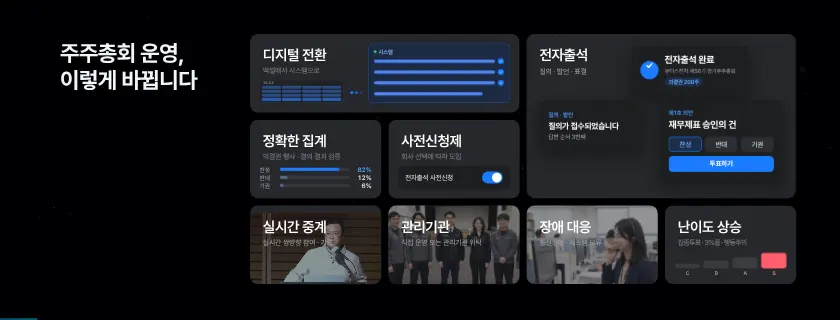
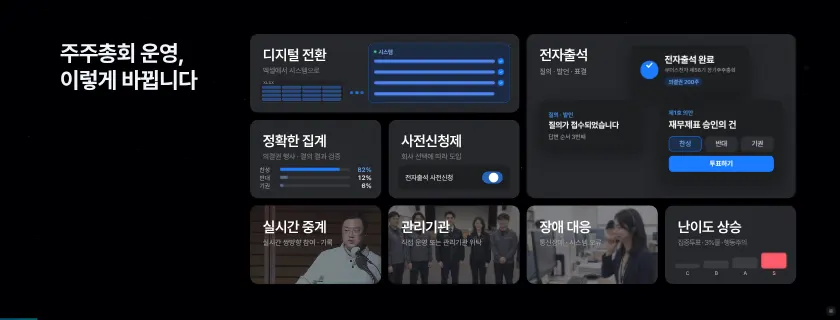
M7-7 세션 4 K02: 실시간 중계 영상 다시 크롭 · 배치(카드 꽉 · 1.5배 · 얼굴이 제목 오른쪽), 아래 세 카드 사진 · 영상 투명도 50 → 42%, 장애 대응 사진 위로(인물 머리 = 관리기관 인물 머리 높이)
Claude-Session: https://claude.ai/code/session_01Mn7Nn16wk2DQC1WBM1amqJ

diff --git a/sw.js b/sw.js
@@ -1,5 +1,5 @@
 /* 오프라인 캐시 — 온라인 주소(https)로 한 번 열면 모든 파일을 저장해 두고, 통신이 끊겨도 저장본으로 동작합니다. */
-const V='seminar-screen-11272030';
+const V='seminar-screen-11272035';
 const FILES=["./","assets/KakaoBigSans-Bold.woff2","assets/KakaoBigSans-Regular.woff2","assets/KakaoSmallSans-Bold.woff2","assets/KakaoSmallSans-Light.woff2","assets/KakaoSmallSans-Regular.woff2","assets/OrbitControls.js","assets/PretendardVariable.woff2","assets/attendees.js","assets/blue-bloom.html","assets/cong1.webp","assets/cong2.webp","assets/ds-bg.html","assets/four-states.html","assets/intro.mp4","assets/irk-white.svg","assets/irk-wordmark-white.svg","assets/kism-intro.mp4","assets/kism-white.svg","assets/ksmp-white.svg","assets/panel.js","assets/qa-online.js","assets/s2/img1.png","assets/s2/img2.png","assets/s2/img3.png","assets/s2/img4.png","assets/s4/aws.webp","assets/s4/callcenter.webp","assets/s4/chair-1.webp","assets/s4/chair-2.webp","assets/s4/chair-3.webp","assets/s4/conexus-word.webp","assets/s4/ctl-1.webp","assets/s4/cx-1.webp","assets/s4/cx-2.webp","assets/s4/cx-3.webp","assets/s4/cx-flow.mp4","assets/s4/cx-pop1.webp","assets/s4/cx-pop2.webp","assets/s4/cx-vote.mp4","assets/s4/cx-vote.webp","assets/s4/cxs-1.webp","assets/s4/insurance.webp","assets/s4/isms-t.webp","assets/s4/isms.webp","assets/s4/ismsp-t.webp","assets/s4/ismsp.webp","assets/s4/kosmos-white.png","assets/s4/ks-1.webp","assets/s4/ks-2.webp","assets/s4/ks-3.webp","assets/s4/ks-4.webp","assets/s4/ks-5.webp","assets/s4/ks-video.webp","assets/s4/live-1.webp","assets/s4/live-2.webp","assets/s4/live-3.webp","assets/s4/live-4.webp","assets/s4/live-5.webp","assets/s4/live-6.webp","assets/s4/live-7.webp","assets/s4/live-8.webp","assets/s4/logos.webp","assets/s4/ocr-1.webp","assets/s4/ocr-2.webp","assets/s4/ocr-3.webp","assets/s4/ocr-4.webp","assets/s4/ocr-5.webp","assets/s4/on-1.png","assets/s4/on-2.webp","assets/s4/on-3.webp","assets/s4/on-4.png","assets/s4/on-5.webp","assets/s4/onboard-1.webp","assets/s4/onboard-2.webp","assets/s4/privacy.webp","assets/s4/proxymity.svg","assets/s4/rehearsal.webp","assets/s4/streaming-korea.webp","assets/s4/tab-1.webp","assets/s4/tab-2.webp","assets/s4/team.webp","assets/sched.js","assets/screen-title-2.svg","assets/screen-title-b-text.svg","assets/screen-title-b.svg","assets/seat-banners.js","assets/seat-fascia.js","assets/seat-screen.js","assets/seatmap.js","assets/service-intro.mp4","assets/speaker-scott.webp","assets/speaker1-1.webp","assets/speaker2.webp","assets/speaker3-1.webp","assets/supabase.min.js","assets/three.min.js","assets/title-logos.svg","control.html","index-fs.html","index.html","kism.html","lobby/cuts.html","lobby/index.html","mc.html","session2.html","session4.html","sw.js","tools/s2_build.py","tools/s2_shell.html","assets/s3/p01.webp","assets/s3/p02.webp","assets/s3/p03.webp","assets/s3/p04.webp","assets/s3/p05.webp","assets/s3/p06.webp","assets/s3/p07.webp","assets/s3/p08.webp","assets/s3/p09.webp","assets/s3/p10.webp","assets/s3/p11.webp","assets/s3/p12.webp","assets/s3/p13.webp","assets/s3/p14.webp","assets/s3/p15.webp","assets/s3/p16.webp","assets/s3/p17.webp","assets/s3/p18.webp","assets/s3/p19.webp","assets/s3/p20.webp","assets/s3/p21.webp","assets/s3/p22.webp","assets/s3/p23.webp","assets/kism/photo-main.webp","assets/kism/photo-2.webp","assets/kism/photo-3.webp","assets/kism/photo-4.webp","assets/sound/countdown-tick.mp3","assets/sound/sfx-s3-part.mp3","assets/sound/sfx-s4-reveal.mp3","assets/sound/sfx-s5-proxymity.mp3","assets/sound/sfx-s6-chime.mp3","assets/sound/sfx-s7-close.mp3","assets/sound/opening-hit.mp3","assets/s4/kosmos-color.svg","assets/s4/ke-logo.png","assets/s4/ke-live.mp4","assets/kism/kwon-talk.mp4","assets/kism/manual-book.webp","kism-open.html","kism_16x9.html","led.html","assets/s4/cx-ops.mp4","assets/s4/cx-ops.webp","assets/s4/agent-app.mp4","assets/s4/kosmos-web.webp","assets/s4/ks-attend.mp4","assets/s4/ks-attend.webp","assets/s4/ks-switch.mp4","assets/s4/ks-switch.webp","assets/s4/ks-notify.mp4","assets/s4/ks-notify.webp","assets/s4/ks-vote.mp4","assets/s4/ks-vote.webp","assets/s4/ks-qna.mp4","assets/s4/ks-qna.webp","assets/s4/pc-map.webp","assets/s4/pc-map.mp4","assets/s4/agent-app.webp","assets/s4/k24b-bg.webp","session0.html","face.html","assets/face-link.js","assets/kism/photo-main-cut.webp","assets/s4/cx-chair.mp4","assets/s4/cx-chair.webp","assets/s4/cx-test.mp4","assets/s4/cx-test.webp","assets/s4/onboard-mgr.webp","assets/s4/proxymity-logo.png","assets/s4/k21-bg.webp","assets/s4/kosmos-admin-white.svg","assets/kism-intro-16x9.mp4","assets/seat-guide.html","assets/s4/app-icon-agent.svg","assets/ds-main.mp4","assets/s4/k2-agency.webp","assets/s4/k2-support.webp","assets/s4/thumbs/K00.webp","assets/s4/thumbs/K01.webp","assets/s4/thumbs/K02.webp","assets/s4/thumbs/K03.webp","assets/s4/thumbs/K04.webp","assets/s4/thumbs/K05.webp","assets/s4/thumbs/K06.webp","assets/s4/thumbs/K07.webp","assets/s4/thumbs/K08.webp","assets/s4/thumbs/K09.webp","assets/s4/thumbs/K10.webp","assets/s4/thumbs/K11.webp","assets/s4/thumbs/K12.webp","assets/s4/thumbs/K13.webp","assets/s4/thumbs/K14.webp","assets/s4/thumbs/K15.webp","assets/s4/thumbs/K16.webp","assets/s4/thumbs/K17.webp","assets/s4/thumbs/K18a.webp","assets/s4/thumbs/K18b.webp","assets/s4/thumbs/K18c.webp","assets/s4/thumbs/K19.webp","assets/s4/thumbs/K19b.webp","assets/s4/thumbs/K19c.webp","assets/s4/thumbs/K20.webp","assets/s4/thumbs/K21.webp","assets/s4/thumbs/K21b.webp","assets/s4/thumbs/K22s.webp","assets/s4/thumbs/K23.webp","assets/s4/thumbs/K23b.webp","assets/s4/thumbs/K24a.webp","assets/s4/thumbs/K24b.webp","assets/s4/thumbs/K24c.webp","assets/s4/thumbs/K25.webp","assets/s4/thumbs/K25b.webp","assets/s4/thumbs/K26.webp","assets/s4/thumbs/K27.webp","assets/s4/thumbs/K28a.webp","assets/s4/thumbs/K28b.webp","assets/s4/thumbs/K28c.webp","assets/s4/thumbs/K28d.webp","assets/s4/thumbs/K29.webp","assets/s4/thumbs/K30.webp","assets/s4/thumbs/K09b.webp","assets/s4/thumbs/K28e.webp","assets/s4/thumbs/K28p.webp","assets/s4/onsite-vote.mp4","assets/s4/onsite-vote.webp","assets/s4/rehearsal-site.webp","assets/qr-ask.svg"];
 self.addEventListener('install',e=>{e.waitUntil(caches.open(V).then(c=>c.addAll(FILES)).then(()=>self.skipWaiting()));});
 self.addEventListener('activate',e=>{e.waitUntil(caches.keys().then(ks=>Promise.all(ks.filter(k=>k!==V).map(k=>caches.delete(k)))).then(()=>self.clients.claim()));});

diff --git a/index.html b/index.html
@@ -886,7 +886,7 @@ body.idle{cursor:none}
 <div class="cg sp"><p class="cg-e fu" style="--i:0">Session 4.</p><div class="cg-b"><h2 class="sp-t" data-words style="--i:1">전자주주총회 도입 · 운영 방안 및<br>통합 솔루션 소개</h2><p class="sp-n ko fu" style="--i:2">박성용</p><p class="sp-r fu" style="--i:3">IR큐더스, 본부장</p></div></div>
 </section>
 <section class="slide" id="m7_7" data-no="M7-7" data-title="M7-7 Session 4 발표 키노트 (session4.html · 21:8 전면)" data-bg="B" data-foot="none" data-kn="1" data-dim=".42" data-tr="blur">
-<iframe class="kn" data-src="session4.html?embed=1&v=11272030" tabindex="-1" title="Session 4 키노트" aria-hidden="true"></iframe>
+<iframe class="kn" data-src="session4.html?embed=1&v=11272035" tabindex="-1" title="Session 4 키노트" aria-hidden="true"></iframe>
 </section>
 <section class="slide" id="m8_1" data-no="M8-1" data-title="M8-1 휴식 · 재개 타이머" data-bg="B" data-foot="full" data-break="brk2">
 <div class="bk">
